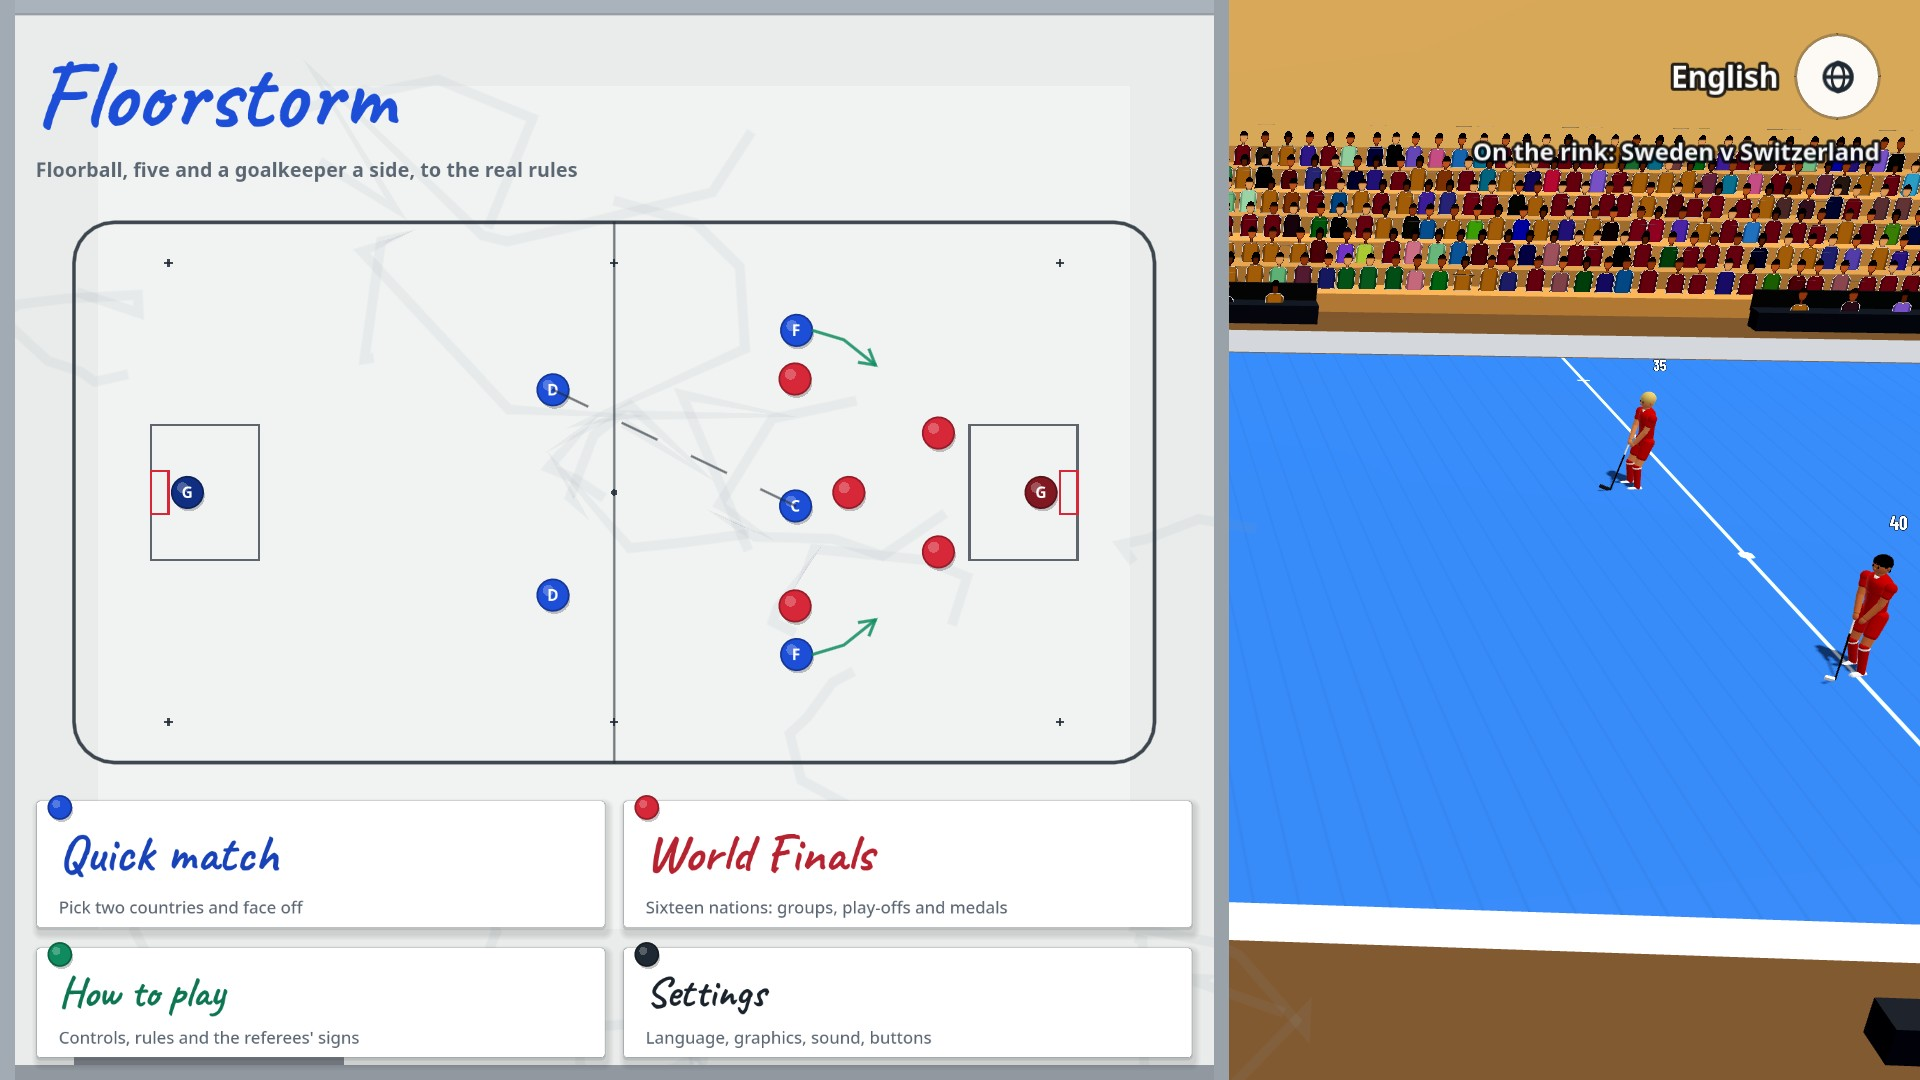
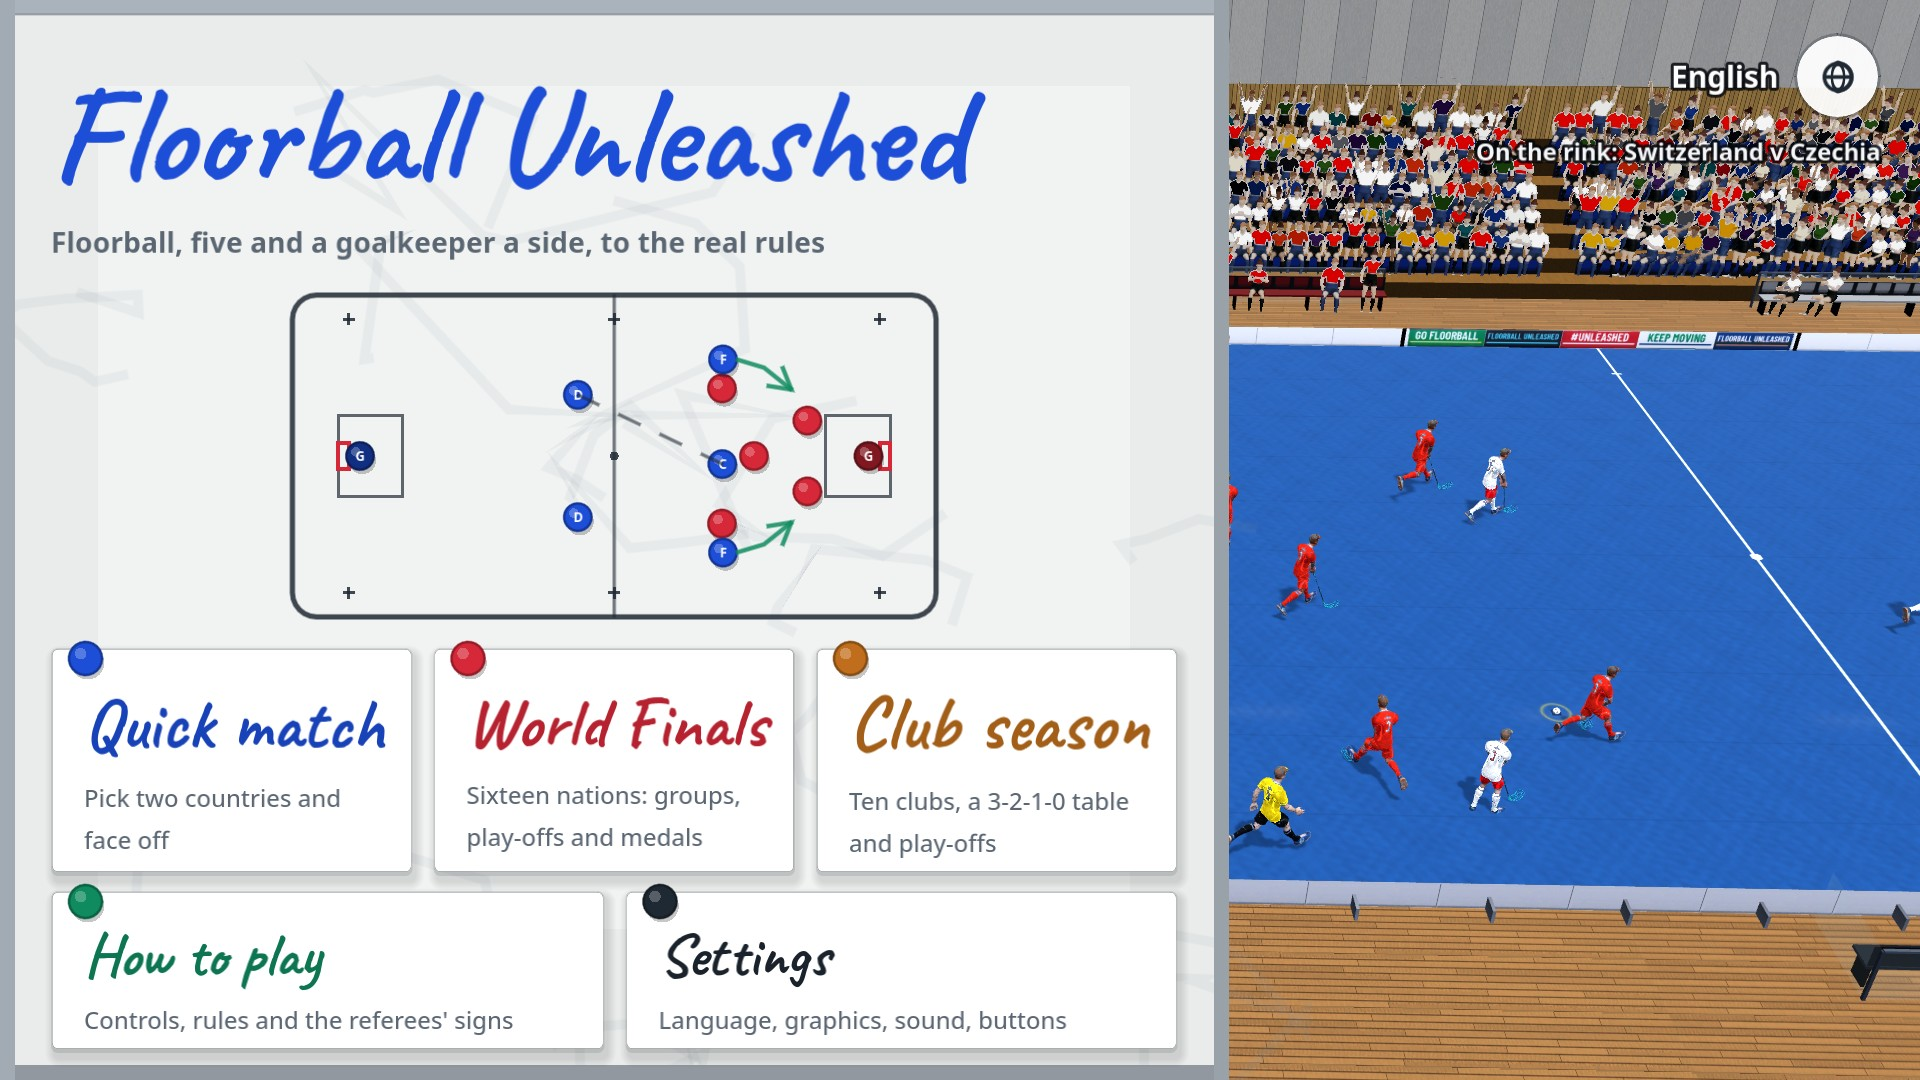
Store: screenshots of the new look, the feature graphic with the new name on two lines
Claude-Session: https://claude.ai/code/session_01Q7qyfqeBNtBfV9E7m7BncT

diff --git a/floorball-game/tools/store/make_feature.py b/floorball-game/tools/store/make_feature.py
@@ -25,14 +25,16 @@ def main() -> None:
     img = Image.alpha_composite(img, Image.eval(shadow, lambda v: v // 3))
     img = Image.alpha_composite(img, board)
     d = ImageDraw.Draw(img)
-    title = ImageFont.truetype(str(ROOT / "fonts" / "Caveat.ttf"), 100)
+    title = ImageFont.truetype(str(ROOT / "fonts" / "Caveat.ttf"), 96)
     title.set_variation_by_axes([700])
-    d.text((60, 120), "Floorball Unleashed", font=title, fill=(29, 78, 216))
+    # The name on two lines, as on the home screen's whiteboard it is one: the panel is half the graphic.
+    d.text((58, 76), "Floorball", font=title, fill=(29, 78, 216))
+    d.text((58, 160), "Unleashed", font=title, fill=(214, 40, 57))
     sub = ImageFont.truetype(str(ROOT / "fonts" / "BarlowCondensed-SemiBold.ttf"), 36)
-    d.text((64, 268), "FLOORBALL · 5 v 5 · REAL RULES", font=sub, fill=(31, 41, 51))
-    d.line([(64, 250), (440, 244)], fill=(214, 40, 57), width=6)
+    d.line([(64, 292), (440, 286)], fill=(31, 41, 51), width=5)
+    d.text((64, 306), "FLOORBALL · 5 v 5 · REAL RULES", font=sub, fill=(31, 41, 51))
     for i, c in enumerate([(29, 78, 216), (214, 40, 57), (15, 139, 95), (240, 138, 36)]):
-        cx, cy = 80 + i * 44, 370
+        cx, cy = 80 + i * 44, 388
         d.ellipse([cx - 15, cy - 15, cx + 15, cy + 15], fill=c)
     out = ROOT / "store" / "graphics" / "feature-1024x500.png"
     img.convert("RGB").save(out)
